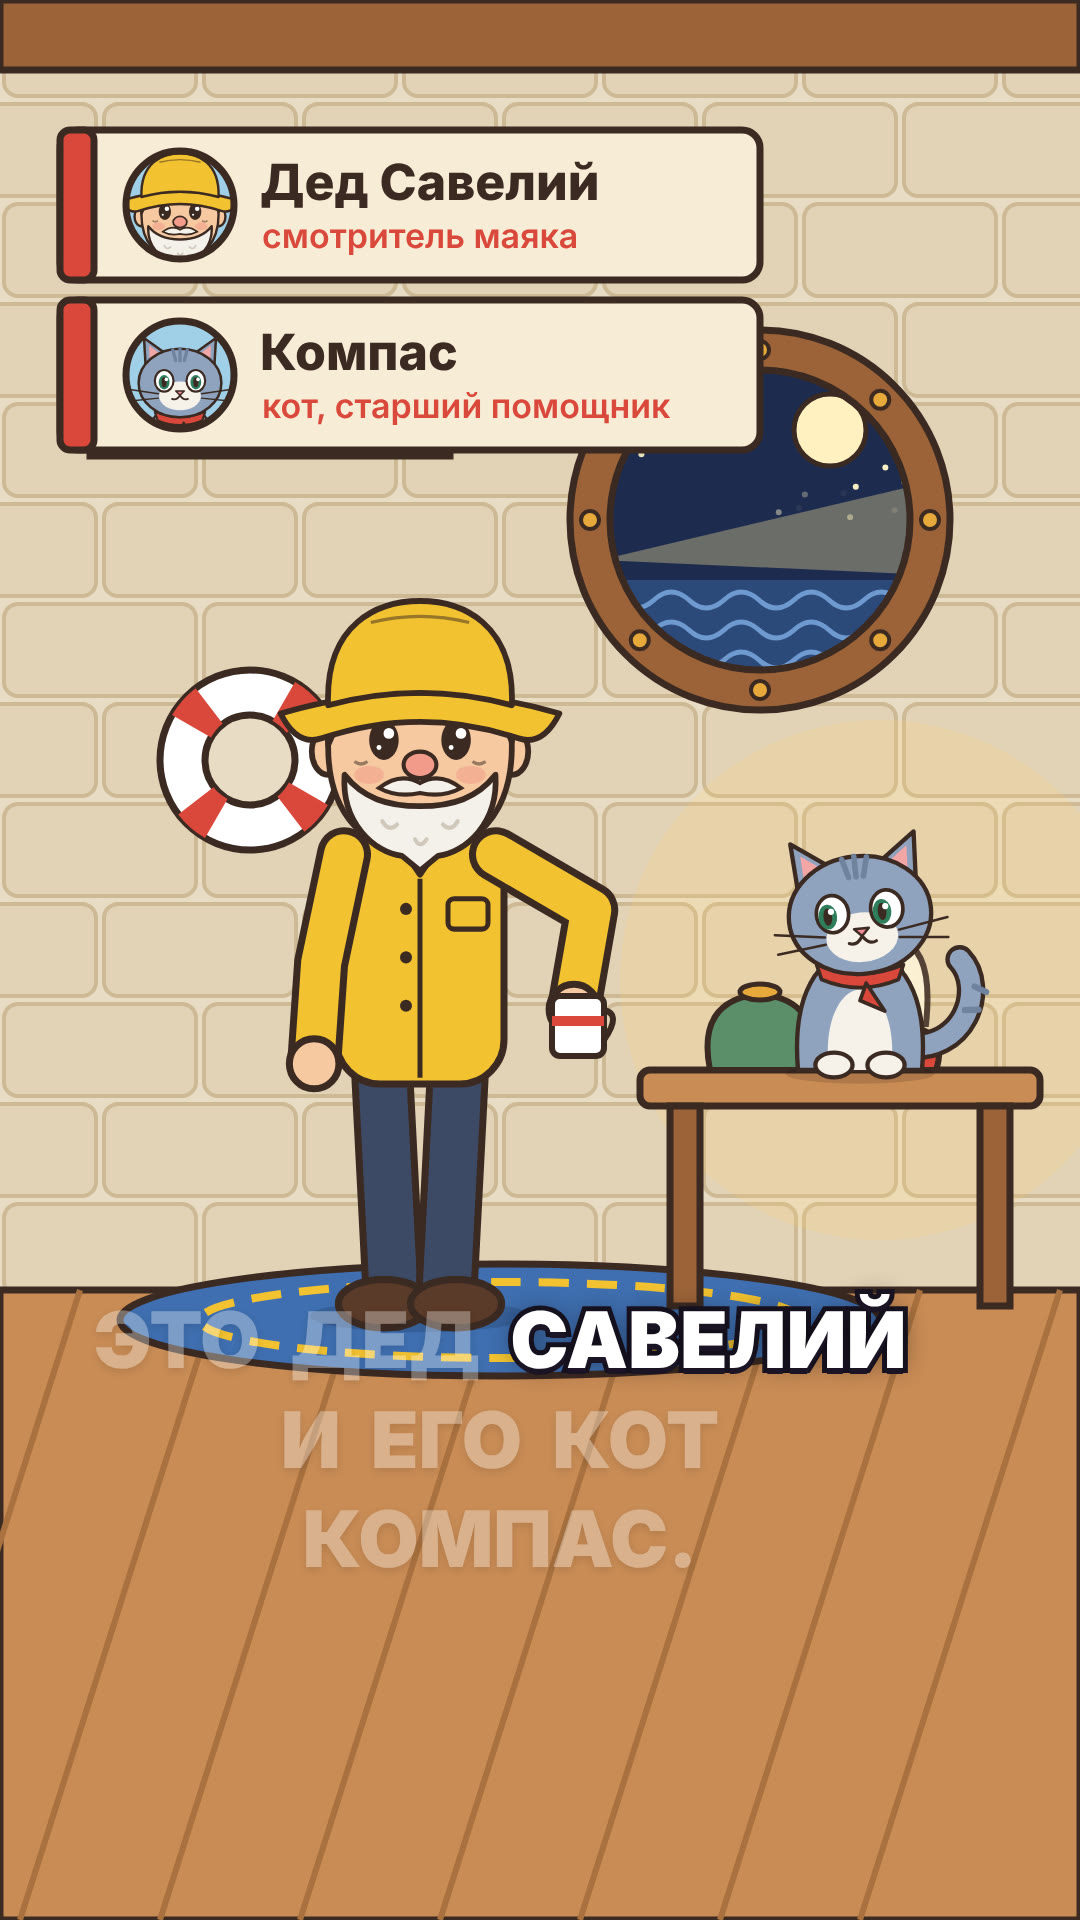
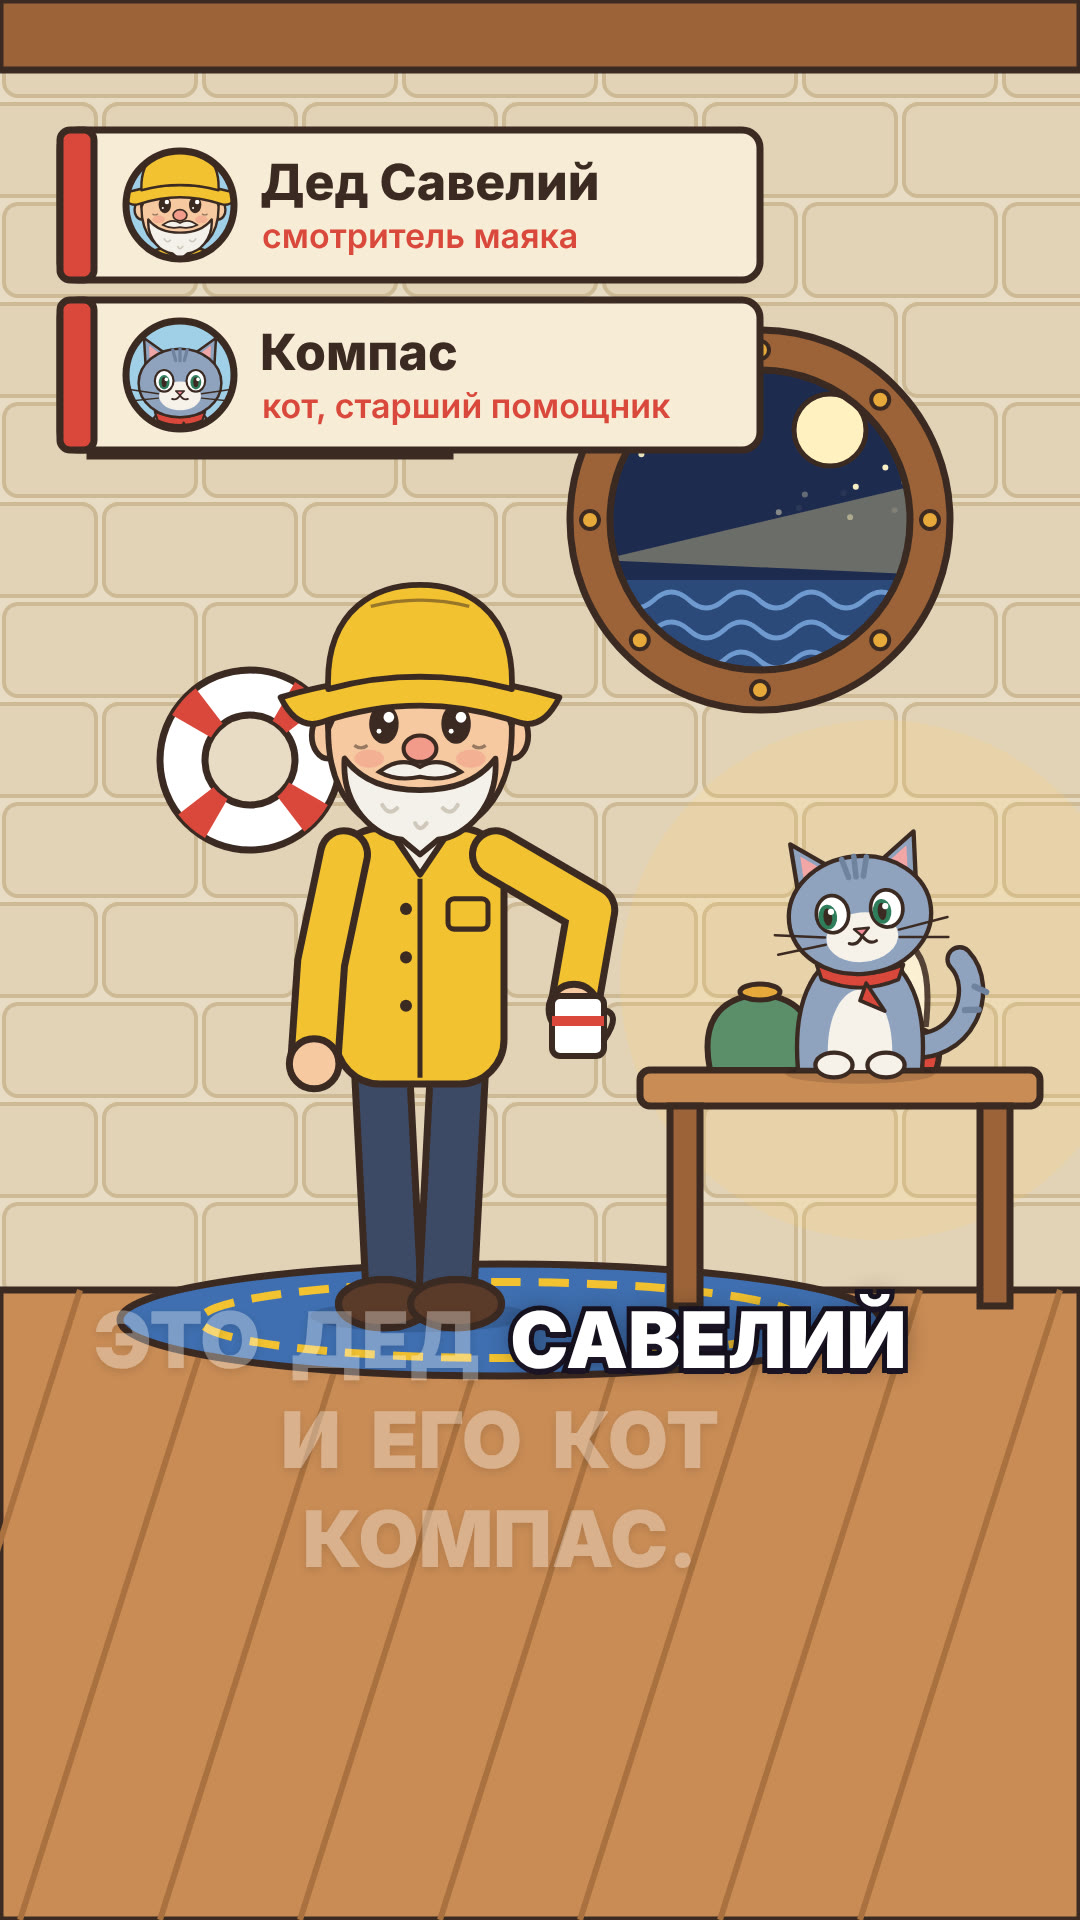
Keeper: raise head slightly
Claude-Session: https://claude.ai/code/session_01FMPcmzreS5vfUHK36F77hk

Changed region(s): [[0.2444, 0.2812, 0.5194, 0.4688], [0.1222, 0.0938, 0.2139, 0.125]]

diff --git a/videos/dvazhdy/src/series/Keeper.tsx b/videos/dvazhdy/src/series/Keeper.tsx
@@ -60,7 +60,7 @@ export const Cat: React.FC<{x: number; y: number; s?: number; t: number; look?: 
 };
 
 const Keeper: React.FC<{x: number; y: number; s?: number; armR?: [number, number]; armL?: [number, number]; face?: 'smile' | 'neutral' | 'think' | 'shock'}> = ({x, y, s = 1, armR, armL, face = 'smile'}) => (
-	<Char x={x} y={y} s={s} headS={0.82} bodyS={1.14} headDrop={34} hair="old" beard nose hat="souwester" hatColor={COAT} jacket={COAT} pants="#3d4a66" face={face} armR={armR} armL={armL} />
+	<Char x={x} y={y} s={s} headS={0.82} bodyS={1.14} headDrop={18} hair="old" beard nose hat="souwester" hatColor={COAT} jacket={COAT} pants="#3d4a66" face={face} armR={armR} armL={armL} />
 );
 
 // ------------------------------------------------------------------ scene 1: inside the lighthouse
